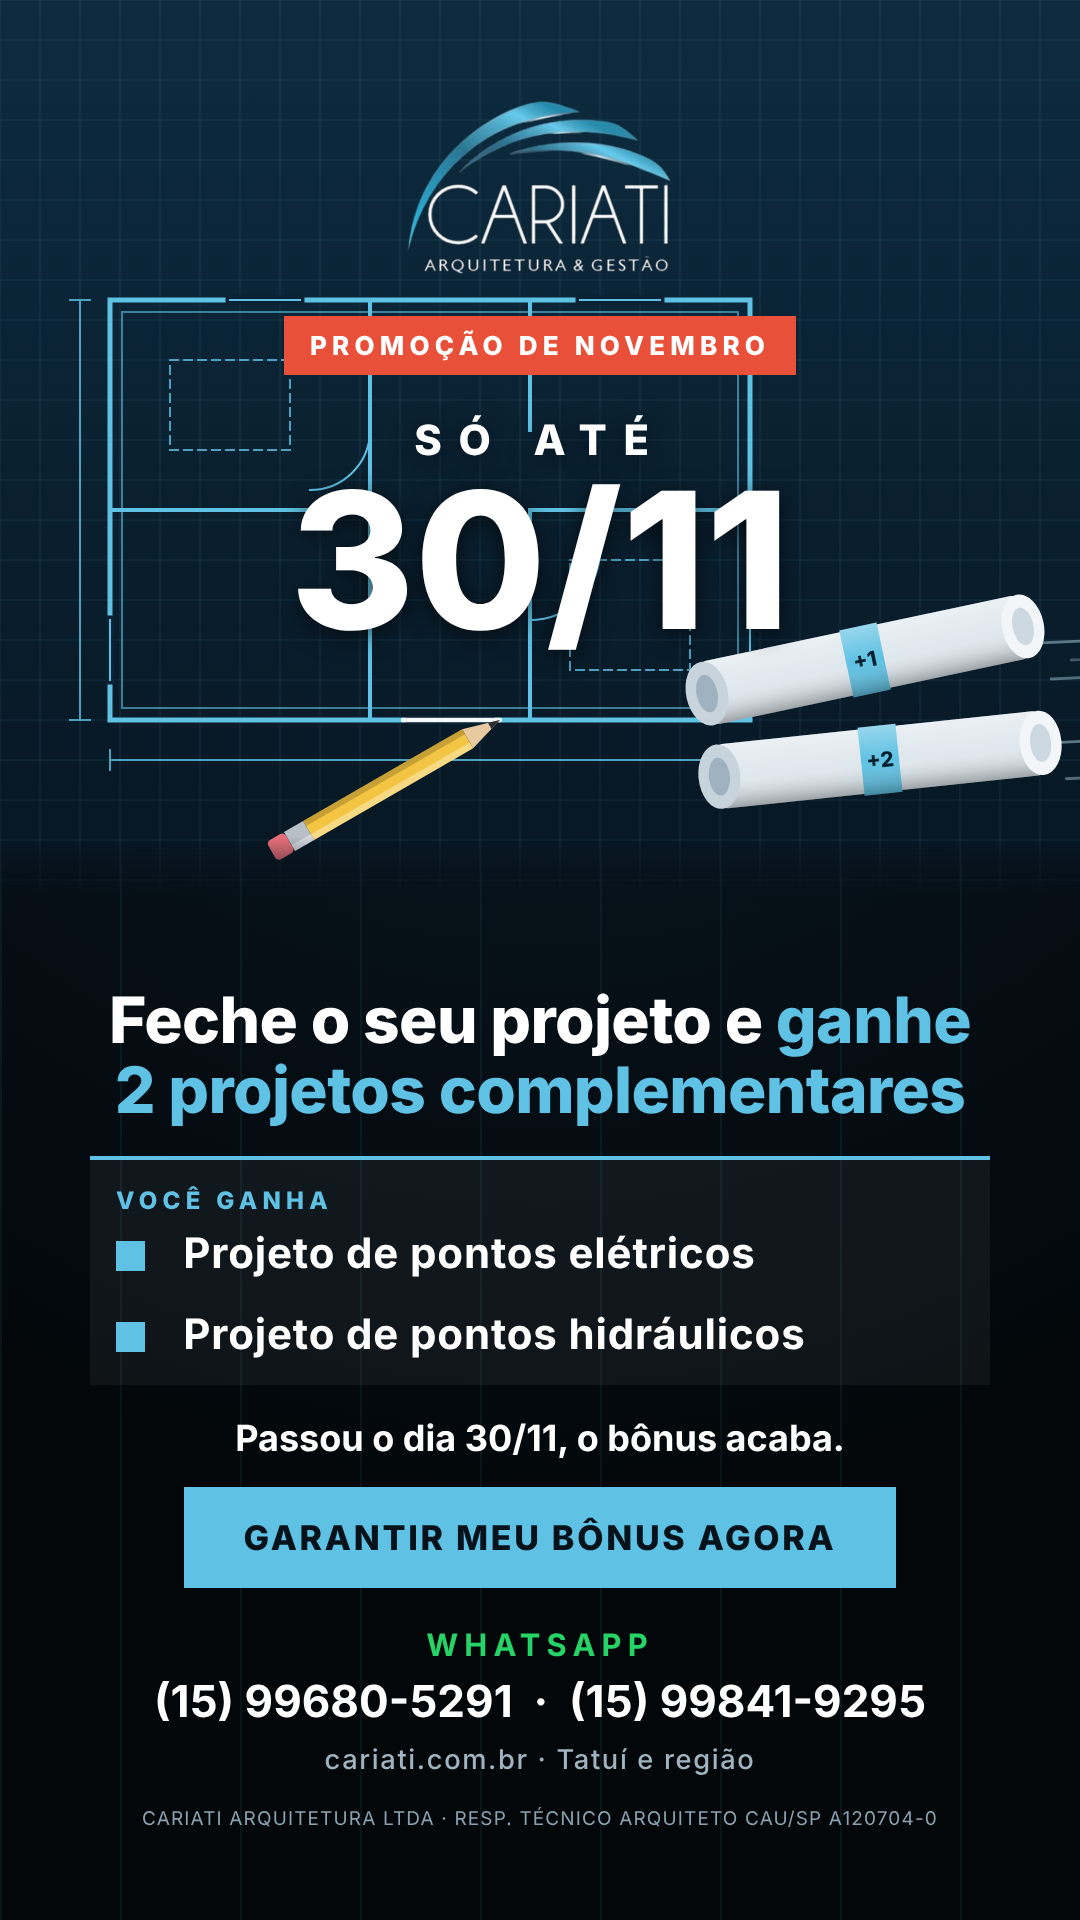
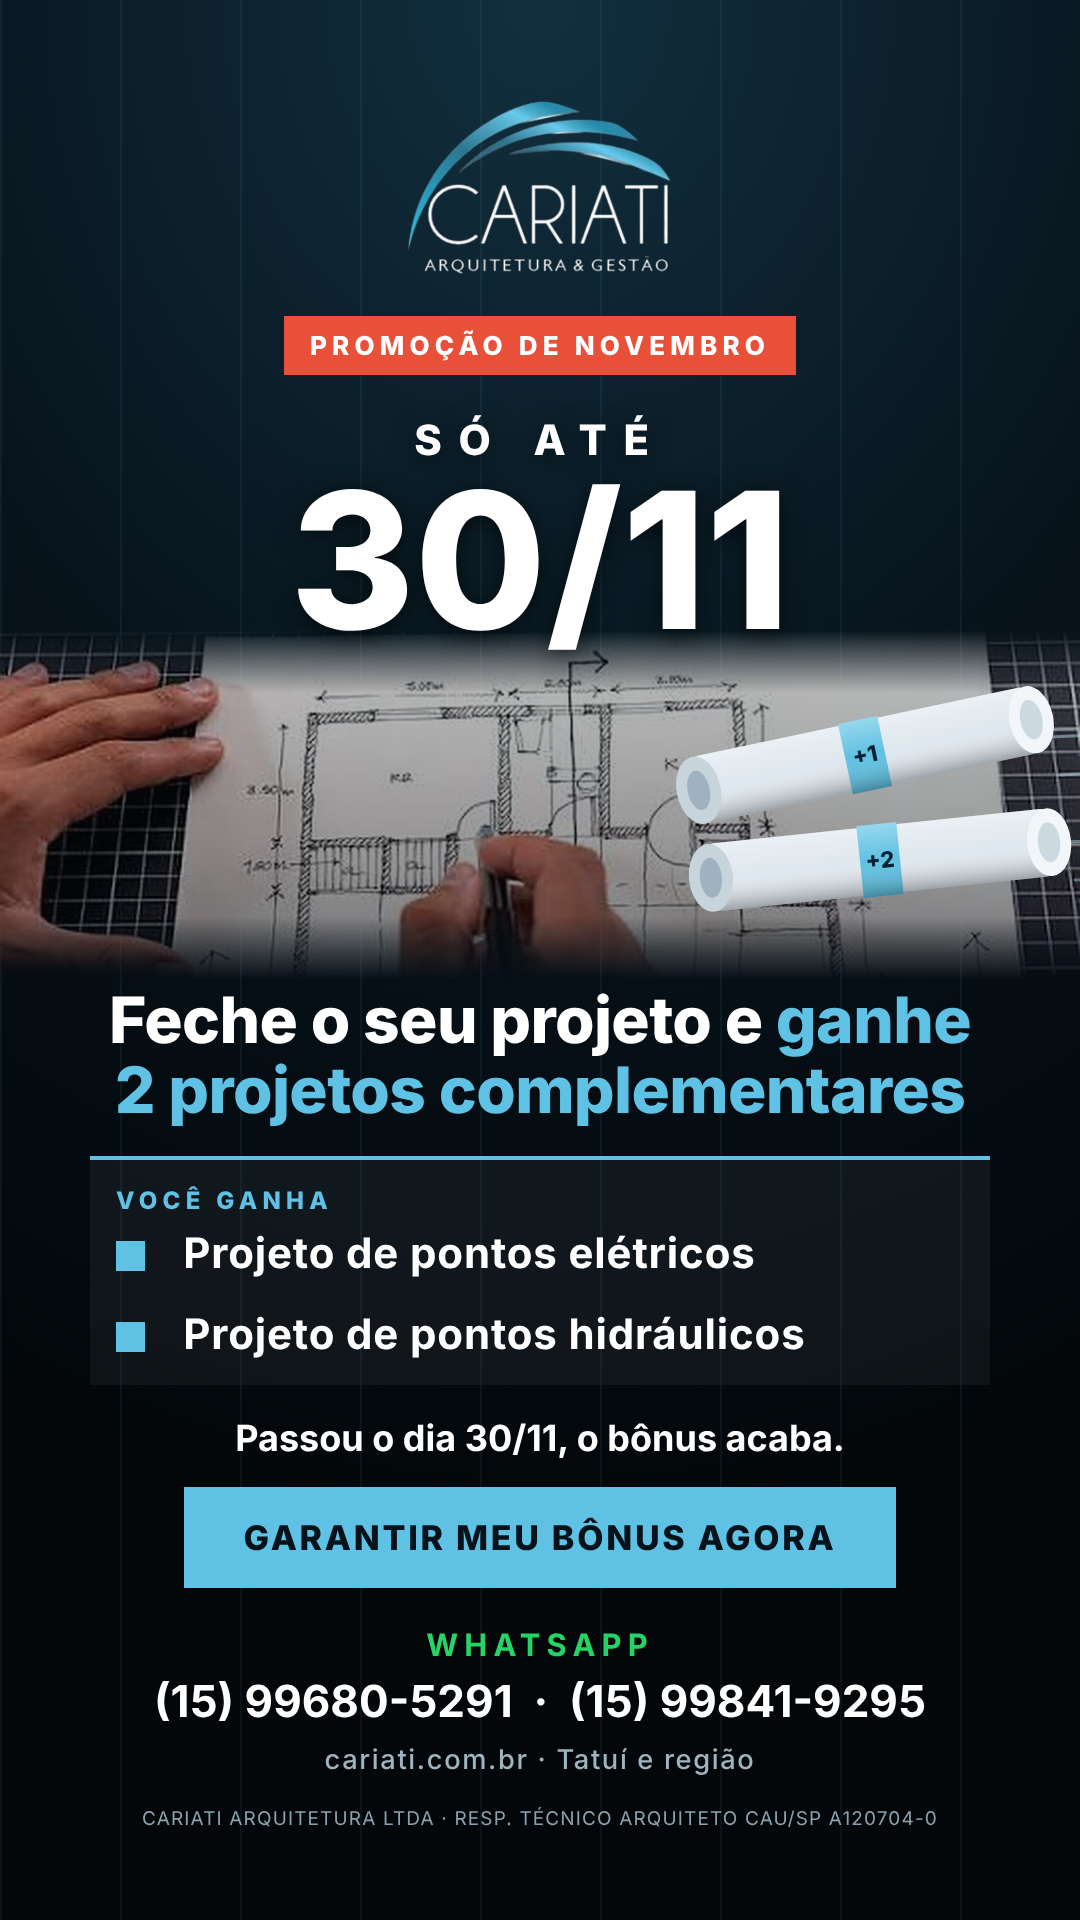
Promo November: use reference photo of hand drawing a plan, plan tubes +1/+2 on top; dark version only
Claude-Session: https://claude.ai/code/session_012W4cPJrLBDcgKi33Cw4yCm

diff --git a/flyers_cariati/build.py b/flyers_cariati/build.py
@@ -42,6 +42,10 @@ h1 em{font-style:normal;color:#5fc1e3}
 .hero{position:absolute;left:0;top:0;width:100%;height:var(--hh);background-size:cover;background-position:center 35%}
 .hero{-webkit-mask-image:linear-gradient(180deg,#000 55%,transparent 100%);mask-image:linear-gradient(180deg,#000 55%,transparent 100%)}
 .hero:after{content:'';position:absolute;inset:0;background:linear-gradient(180deg,rgba(3,10,16,.78) 0%,rgba(3,10,16,.35) 30%,rgba(3,10,16,.45) 100%)}
+.hero.hp{background-size:cover;background-position:center}
+.hero.hp:after{background:linear-gradient(180deg,rgba(3,10,16,.70) 0%,rgba(3,10,16,.50) 40%,rgba(3,10,16,.60) 100%)}
+.hero.hp2{top:630px;height:350px;background-size:100% auto;background-position:center 17%;-webkit-mask-image:linear-gradient(180deg,transparent 0%,#000 22%,#000 78%,transparent 100%);mask-image:linear-gradient(180deg,transparent 0%,#000 18%,#000 82%,transparent 100%)}
+.hero.hp2:after{background:linear-gradient(180deg,rgba(3,10,16,.25),rgba(3,10,16,.40) 60%,rgba(3,10,16,.55))}
 .hero.nb:after{display:none}
 .hero.nb svg{-webkit-mask-image:linear-gradient(180deg,#000 93%,transparent);mask-image:linear-gradient(180deg,#000 93%,transparent)}
 .ov{color:#fff;text-shadow:0 4px 24px rgba(0,0,0,.6)}
@@ -170,7 +174,7 @@ def dica(n,hook,corpo,pratica):
         return '<img class="logo z" src="assets/logo.png" style="height:100px;align-self:flex-start">'+flex()+tag+sp(18)+h+sp(26)+body+sp(34)+box+flex()+sig+small
     return fn
 
-def blueprint(H,ry,rs):
+def blueprint(H,ry,rs,photo=False):
     W=1080
     g="".join(f'<line x1="{x}" y1="0" x2="{x}" y2="{H}"/>' for x in range(0,W,40))+"".join(f'<line x1="0" y1="{y}" x2="{W}" y2="{y}"/>' for y in range(0,H,40))
     t=H*0.2
@@ -190,13 +194,19 @@ def blueprint(H,ry,rs):
     rx1,ry1=W-215,ry; rx2,ry2=W-200,ry+105*rs
     def streak(cx,cy,L): return "".join(f'<line x1="{cx+175*rs+10+o}" y1="{cy+dy*rs}" x2="{cx+175*rs+10+o+L}" y2="{cy+dy*rs-4}" stroke="#bfe6f5" stroke-width="{3*rs:.1f}" stroke-linecap="round" opacity="{op}"/>' for o,dy,op in ((0,-18,.45),(30,0,.3),(10,20,.4)))
     rolls=streak(rx1,ry1,90*rs)+streak(rx2,ry2,80*rs)+roll(rx1,ry1,-12,"+1",rs)+roll(rx2,ry2,-6,"+2",rs)+pencil
+    if photo:
+        rolls=rolls.replace(pencil,'')
+        return f"""<svg xmlns="http://www.w3.org/2000/svg" viewBox="0 0 {W} {H}" width="{W}" height="{H}" style="position:absolute;left:0;top:0;z-index:2"><defs><linearGradient id="shade" x1="0" y1="0" x2="0" y2="1"><stop offset="0" stop-color="#fff" stop-opacity=".35"/><stop offset=".5" stop-color="#fff" stop-opacity="0"/><stop offset="1" stop-color="#000" stop-opacity=".3"/></linearGradient></defs>{rolls}</svg>"""
     return f"""<svg xmlns="http://www.w3.org/2000/svg" viewBox="0 0 {W} {H}" width="{W}" height="{H}" style="position:absolute;left:0;top:0"><defs><linearGradient id="bg" x1="0" y1="0" x2="0" y2="1"><stop offset="0" stop-color="#0d2c40"/><stop offset="1" stop-color="#071622"/></linearGradient><linearGradient id="shade" x1="0" y1="0" x2="0" y2="1"><stop offset="0" stop-color="#fff" stop-opacity=".35"/><stop offset=".5" stop-color="#fff" stop-opacity="0"/><stop offset="1" stop-color="#000" stop-opacity=".3"/></linearGradient></defs><rect width="{W}" height="{H}" fill="url(#bg)"/><g stroke="#5fc1e3" stroke-opacity=".13" stroke-width="1">{g}</g>{plan}{rolls}</svg>"""
 # promo outubro (clientes com orçamento de projeto)
 def fpromo(vert):
     bonus=lambda t:f'<li>{t}</li>'
     bl=bonus("Projeto de pontos elétricos")+bonus("Projeto de pontos hidráulicos")
     box=f'<div class="card z promo" style="text-align:left"><div class="l" style="letter-spacing:.22em;font-size:calc(var(--cl)*.8)">VOCÊ GANHA</div><ul class="list" style="margin-top:12px">{bl}</ul></div>'
-    hero="<div class='hero nb' style='background:none;-webkit-mask-image:none;mask-image:none'>"+blueprint(900 if vert else 430, 660 if vert else 262, 0.95 if vert else 0.72)+"</div>"
+    if vert:
+        hero="<div class='hero hp2' style=\"background-image:url('assets/ref_desenho.jpg')\"></div><div style='position:absolute;left:0;top:630px;width:1080px;height:350px;z-index:2'>"+blueprint(350,125,1,True)+"</div>"
+    else:
+        hero="<div class='hero hp' style=\"background-image:url('assets/ref_desenho.jpg');background-position:center 62%\"></div><div style='position:absolute;left:0;top:0;width:1080px;height:430px;z-index:2'>"+blueprint(430,330,0.72,True)+"</div>"
     lg='<img class="logo z" src="assets/logo_branco.png" style="height:var(--lh);align-self:center">'
     urg='<div class="z" style="align-self:center"><span class="urg">Promoção de novembro</span></div>'
     date='<div class="z ov" style="text-align:center"><div class="ovs">SÓ ATÉ</div><div class="ovd">30/11</div></div>'
@@ -211,7 +221,7 @@ jobs=[]
 (root/"html").mkdir(exist_ok=True)
 for name,fn in FL:
     for tag,(w,h,vars_,vert) in {"vertical_1080x1920":(1080,1920,VV,True),"quadrado_1080x1080":(1080,1080,SQ,False)}.items():
-        for light in (False,True):
+        for light in ((False,) if name.startswith('promo') else (False,True)):
             html=page(w,h,fn(vert),vars_,light).replace('assets/','../assets/')
             if light: html=html.replace('../assets/logo.png','../assets/logo_escuro.png')
             fn_=f"{name}_{tag}"+("_claro" if light else "")
